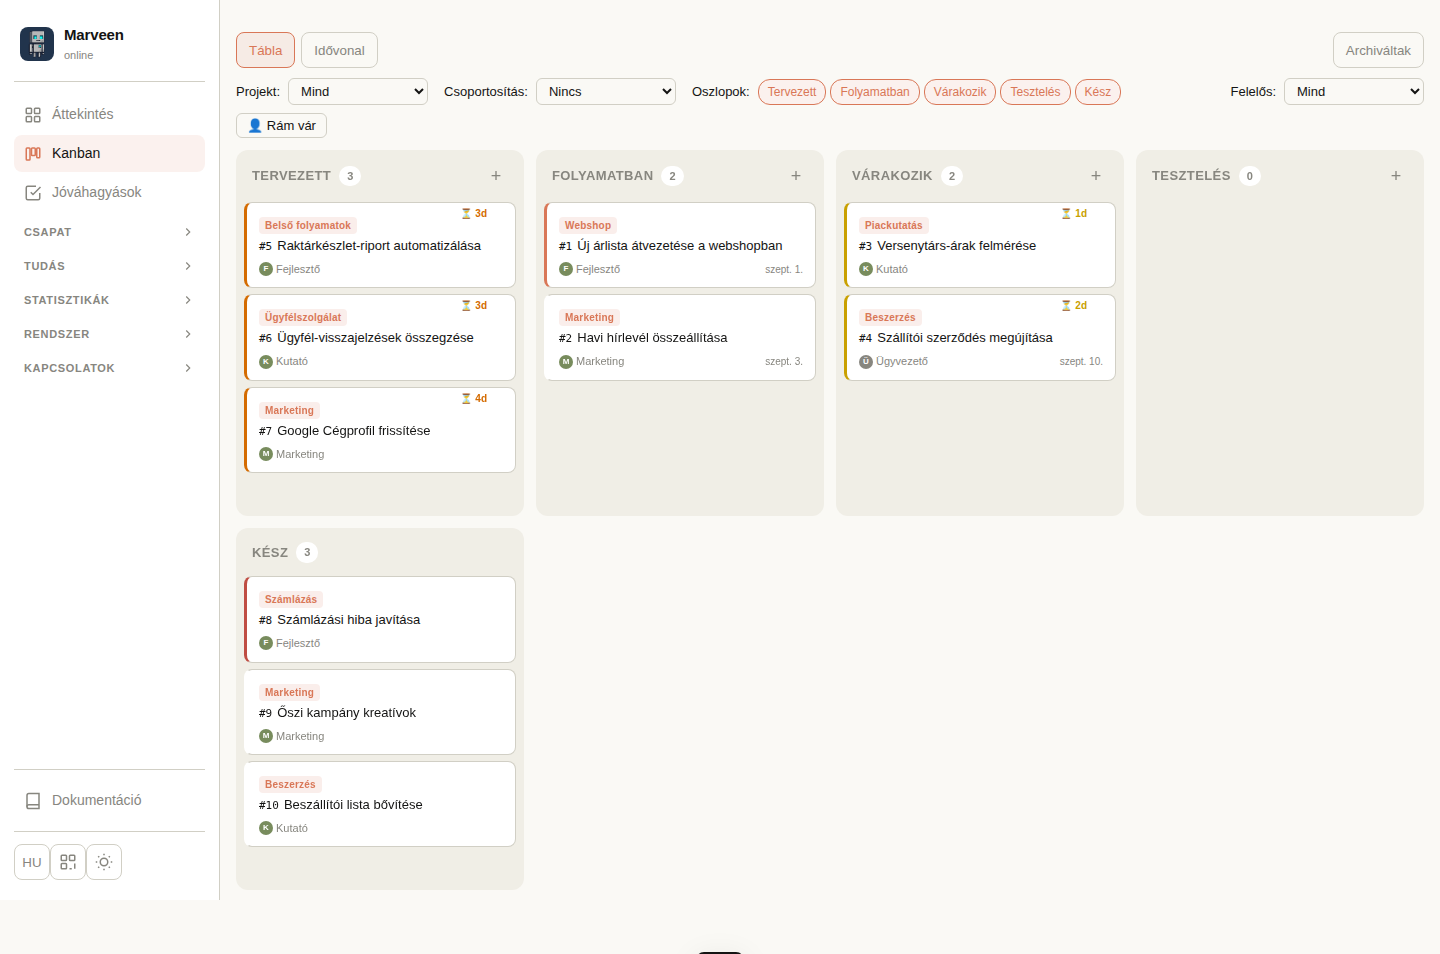
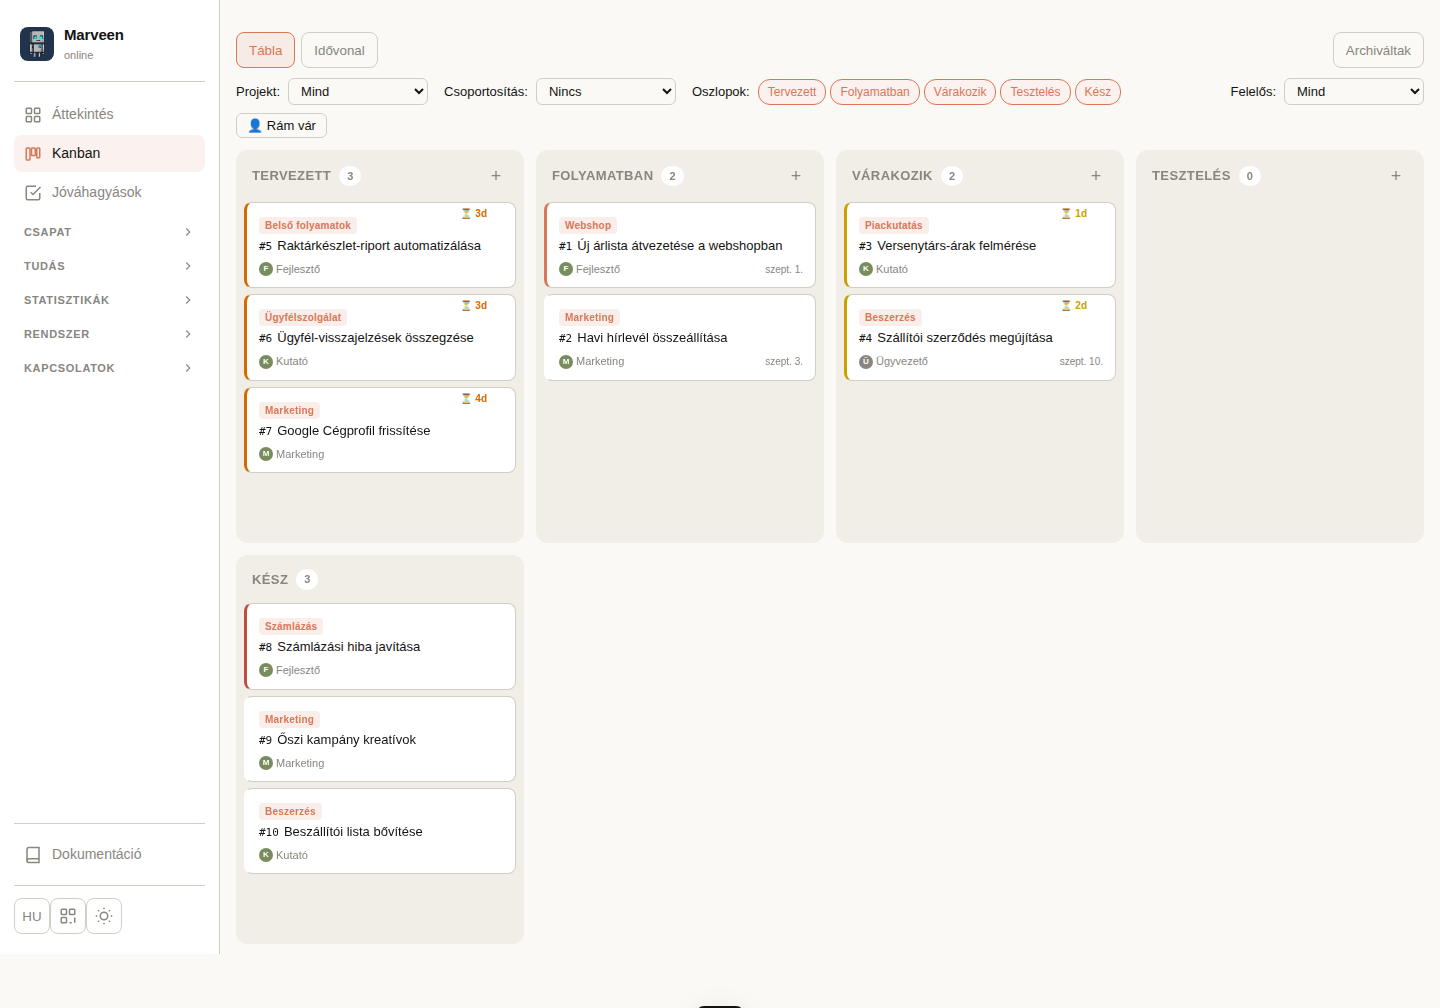
Kézikönyv: Marween review-ja alapján javított screenshotok (memória/költség seed-hiba, fullPage stitching black-box glitch, archivált kártyák kép hozzáadva)

diff --git a/docs/dashboard-kezikonyv/screenshots.spec.ts b/docs/dashboard-kezikonyv/screenshots.spec.ts
@@ -87,6 +87,14 @@ async function dismissSetupBanners(page: import('@playwright/test').Page) {
   }
 }
 
+// Defensive: #toast is position:fixed with a 3s auto-hide (web/app.js
+// showToast()); if a page load ever fires one, force it hidden rather than
+// race its timeout. (Not the cause of the black-box artifact below --
+// verified by pixel-diffing screenshots with and without this call.)
+async function hideToast(page: import('@playwright/test').Page) {
+  await page.evaluate(() => document.getElementById('toast')?.classList.remove('visible'))
+}
+
 for (const shot of SHOTS) {
   test(`capture: ${shot.name}`, async ({ page }) => {
     await page.goto(`/?token=${TOKEN}`)
@@ -97,6 +105,17 @@ for (const shot of SHOTS) {
     await page.waitForTimeout(600) // let the page's own load*() fetch + render settle
     await dismissSetupBanners(page)
     if (shot.after) await shot.after(page)
+    await hideToast(page)
+    // Chromium's fullPage screenshot stitches multiple viewport-sized frames
+    // together for any page taller than the configured viewport, and that
+    // stitching pass reliably left a solid black rounded-rect compositing
+    // glitch at the same pixel offset (704,952) on every page that needed
+    // more than one frame -- confirmed by pixel-scanning several captures.
+    // Growing the viewport to the page's actual scrollHeight first means a
+    // single-frame capture covers everything, so `fullPage` never has to
+    // stitch, sidestepping the glitch entirely.
+    const contentHeight = await page.evaluate(() => document.documentElement.scrollHeight)
+    await page.setViewportSize({ width: 1440, height: contentHeight })
     await page.screenshot({ path: path.join(KEPEK_DIR, `${shot.name}.png`), fullPage: true })
   })
 }

diff --git a/docs/dashboard-kezikonyv/index.html b/docs/dashboard-kezikonyv/index.html
@@ -413,6 +413,11 @@
       <p><em>Elérés: a Kanban tábla tetején az "Archiváltak" gomb (nincs önálló bal oldali menüpontja).</em></p>
       <p>A táblán már nem látható (mert automatikusan vagy kézzel archivált), de nem törölt kártyák dedikált, kereshető nézete.</p>
 
+      <div class="screenshot">
+        <img src="kepek/02b-kanban-archivaltak.png" alt="Archivált kártyák nézet, keresővel és szűrőkkel">
+        <div class="screenshot-caption">Archivált kártyák nézet. Ezen a mintán még nincs archivált kártya, a keresés és a szűrők akkor is elérhetők.</div>
+      </div>
+
       <div class="feature-block">
         <h4>Keresés és szűrők</h4>
         <p>Szabad szöveges keresés (cím, projekt, felelős), valamint projekt, címke és archiválási dátumtartomány szerinti szűrés.</p>
